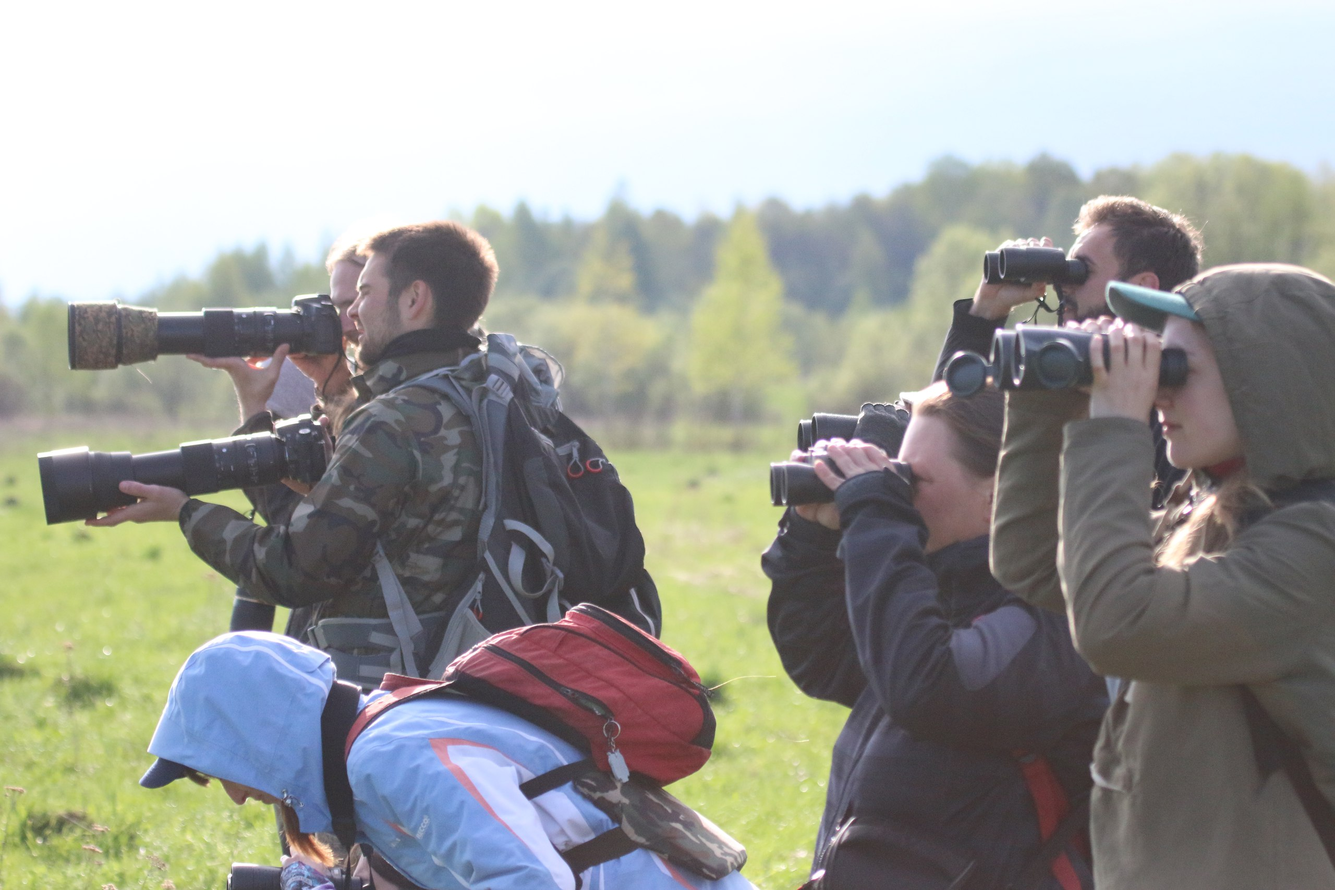
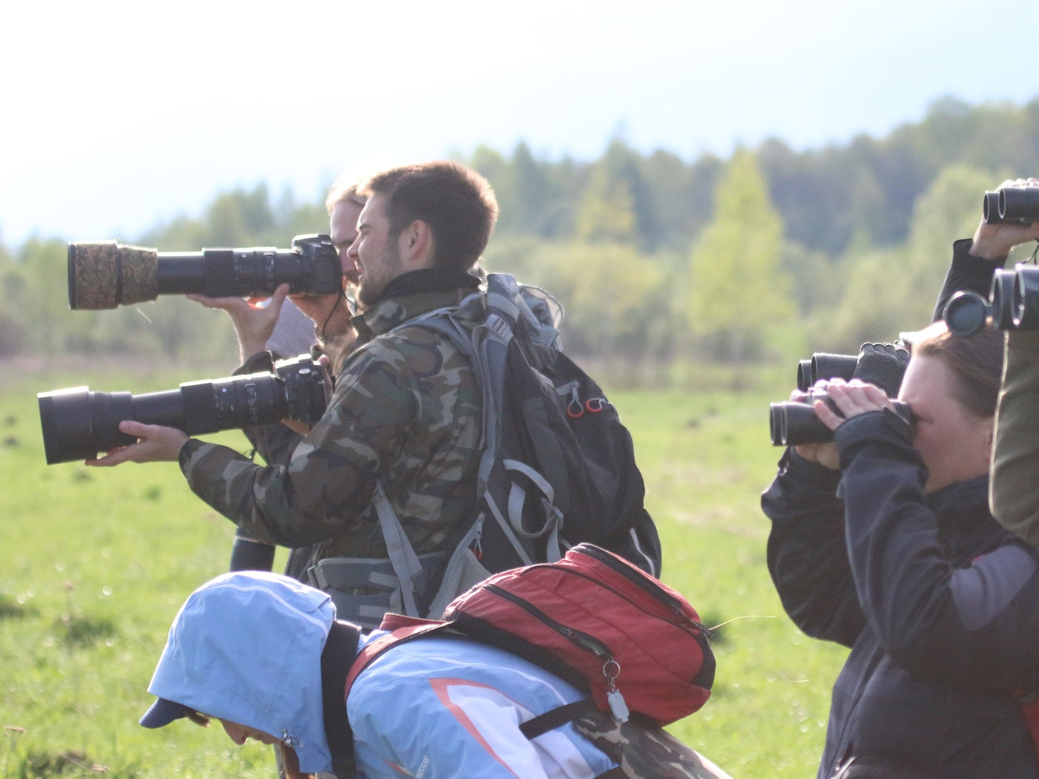
feat: extract BirdIdTextSection and add how-the-course-works section

diff --git a/app/(site)/birdid/page.tsx b/app/(site)/birdid/page.tsx
@@ -1,9 +1,10 @@
 import type { Metadata } from 'next'
 import { PhotoCard } from '@/components/PhotoCard/PhotoCard'
 import { BirdIdHeroInfo } from '@/components/birdid/BirdIdHeroInfo'
+import { BirdIdTextSection } from '@/components/birdid/BirdIdTextSection'
+import { BirdIdPhotoRow } from '@/components/birdid/BirdIdPhotoRow'
 import { PrivateHighlights, type PrivateHighlight } from '@/components/private/PrivateHighlights'
 import { AlertBanner } from '@/components/AlertBanner/AlertBanner'
-import { BirdIdPhotoRow } from '@/components/birdid/BirdIdPhotoRow'
 import { getBirdIdPublic } from '@/lib/birdid'
 import styles from './page.module.css'
 
@@ -56,19 +57,25 @@ export default async function BirdIDPage() {
 
       <AlertBanner text="Вставать придётся в 5 утра, ходить по 10+ км! В выходные!" className={styles.alert} />
 
-      <section className={styles.about}>
-        <h2 className={`text-display ${styles.aboutTitle}`}>Что такое курс BirdID и кому он подходит?</h2>
-        <div className={styles.aboutBody}>
-          <p className={`text-body-l ${styles.aboutParagraph}`}>
-            BirdID — это углублённый курс полевой идентификации птиц. Он подходит для тех, кто всерьёз увлёкся птицами и хочет развиваться в этом направлении. Ваш уровень не важен, будет интересно и новичкам, и продвинутым бёрдвотчерам, и даже специалистам-биологам. На курсе вы научитесь профессионально определять птиц по внешнему виду и голосу, проводить учёты и вносить данные в базы наблюдений. После курса вы сможете волонтёрить и даже работать в заповедниках и помогать учёным в экспедициях.
-          </p>
-          <p className={`text-body-l ${styles.aboutParagraph}`}>
-            Курс длится с середины апреля по середину июня и проходит по выходным. Занятия занимают целый день, а иногда и несколько дней. Вам придётся столкнуться со всеми сложностями интенсивной полевой работы: подъёмы в 5 утра, пешие походы больше 10 км и все превратности погоды — наши постоянные спутники. После курса вы сдаёте экзамены и получаете сертификат.
-          </p>
-        </div>
-      </section>
+      <BirdIdTextSection
+        title="Что такое курс BirdID и кому он подходит?"
+        paragraphs={[
+          'BirdID — это углублённый курс полевой идентификации птиц. Он подходит для тех, кто всерьёз увлёкся птицами и хочет развиваться в этом направлении. Ваш уровень не важен, будет интересно и новичкам, и продвинутым бёрдвотчерам, и даже специалистам-биологам. На курсе вы научитесь профессионально определять птиц по внешнему виду и голосу, проводить учёты и вносить данные в базы наблюдений. После курса вы сможете волонтёрить и даже работать в заповедниках и помогать учёным в экспедициях.',
+          'Курс длится с середины апреля по середину июня и проходит по выходным. Занятия занимают целый день, а иногда и несколько дней. Вам придётся столкнуться со всеми сложностями интенсивной полевой работы: подъёмы в 5 утра, пешие походы больше 10 км и все превратности погоды — наши постоянные спутники. После курса вы сдаёте экзамены и получаете сертификат.',
+        ]}
+      />
 
       <BirdIdPhotoRow />
+
+      <BirdIdTextSection
+        title="Как проходит курс BirdID?"
+        paragraphs={[
+          <>BirdID — это полноценный университетский курс, разработанный{' '}<a href="https://www.nord.no" target="_blank" rel="noopener noreferrer">норвежским университетом Nord</a>. В России наша команда проводит курс BirdID с 2017 года и уже выпустила семь потоков студентов.</>,
+          'Цель курса — подготовка специалистов для участия в программах по учёту и мониторингу птиц и научных работах.',
+          'Для записи на курс нужно пройти собеседование и вступительный тест онлайн. Его результаты ни на что не влияют, он нужен нам для определения вашего уровня и чтобы отследить динамику обучения. Для получения сертификата после окончания курса нужно сдать итоговый экзамен онлайн и полевой очный зачет.',
+          'Занятия проходят в каждые выходные дни с 4 апреля по 7 июня в Москве, Подмосковье и его окрестностях — в парках, лесопарках, заказниках и заповедниках. В 2026 году планируется два больших выезда на три дня: в Окский заповедник и Смоленское Поозерье. Всего планируется провести 22 занятий, 4 семинара и 4 лекции. Длительность полевого занятия — около 5 часов в Москве и бесконечность на выездах. В зависимости от погодных условий длительность отдельного занятия может варьироваться.',
+        ]}
+      />
     </main>
   )
 }

diff --git a/components/birdid/BirdIdTextSection.tsx b/components/birdid/BirdIdTextSection.tsx
@@ -1,0 +1,18 @@
+import { type ReactNode } from 'react'
+import styles from './BirdIdTextSection.module.css'
+
+type Props = {
+  title: string
+  paragraphs: ReactNode[]
+}
+
+export const BirdIdTextSection = ({ title, paragraphs }: Props) => (
+  <section className={styles.section}>
+    <h2 className={`text-display ${styles.title}`}>{title}</h2>
+    <div className={styles.body}>
+      {paragraphs.map((p, i) => (
+        <p key={i} className={`text-body-l ${styles.paragraph}`}>{p}</p>
+      ))}
+    </div>
+  </section>
+)

diff --git a/app/(site)/birdid/page.module.css b/app/(site)/birdid/page.module.css
@@ -1,27 +1,3 @@
 .alert {
   margin-top: var(--space-10);
 }
-
-.about {
-  display: flex;
-  flex-direction: column;
-  gap: var(--space-6);
-  padding-top: var(--space-10);
-  min-width: 320px;
-  max-width: 720px;
-  margin-inline: auto;
-}
-
-.aboutTitle {
-  margin: 0;
-}
-
-.aboutBody {
-  display: flex;
-  flex-direction: column;
-  gap: var(--space-4);
-}
-
-.aboutParagraph {
-  margin: 0;
-}

diff --git a/components/birdid/BirdIdTextSection.module.css b/components/birdid/BirdIdTextSection.module.css
@@ -1,0 +1,23 @@
+.section {
+  display: flex;
+  flex-direction: column;
+  gap: var(--space-6);
+  padding-top: var(--space-10);
+  min-width: 320px;
+  max-width: 720px;
+  margin-inline: auto;
+}
+
+.title {
+  margin: 0;
+}
+
+.body {
+  display: flex;
+  flex-direction: column;
+  gap: var(--space-4);
+}
+
+.paragraph {
+  margin: 0;
+}
